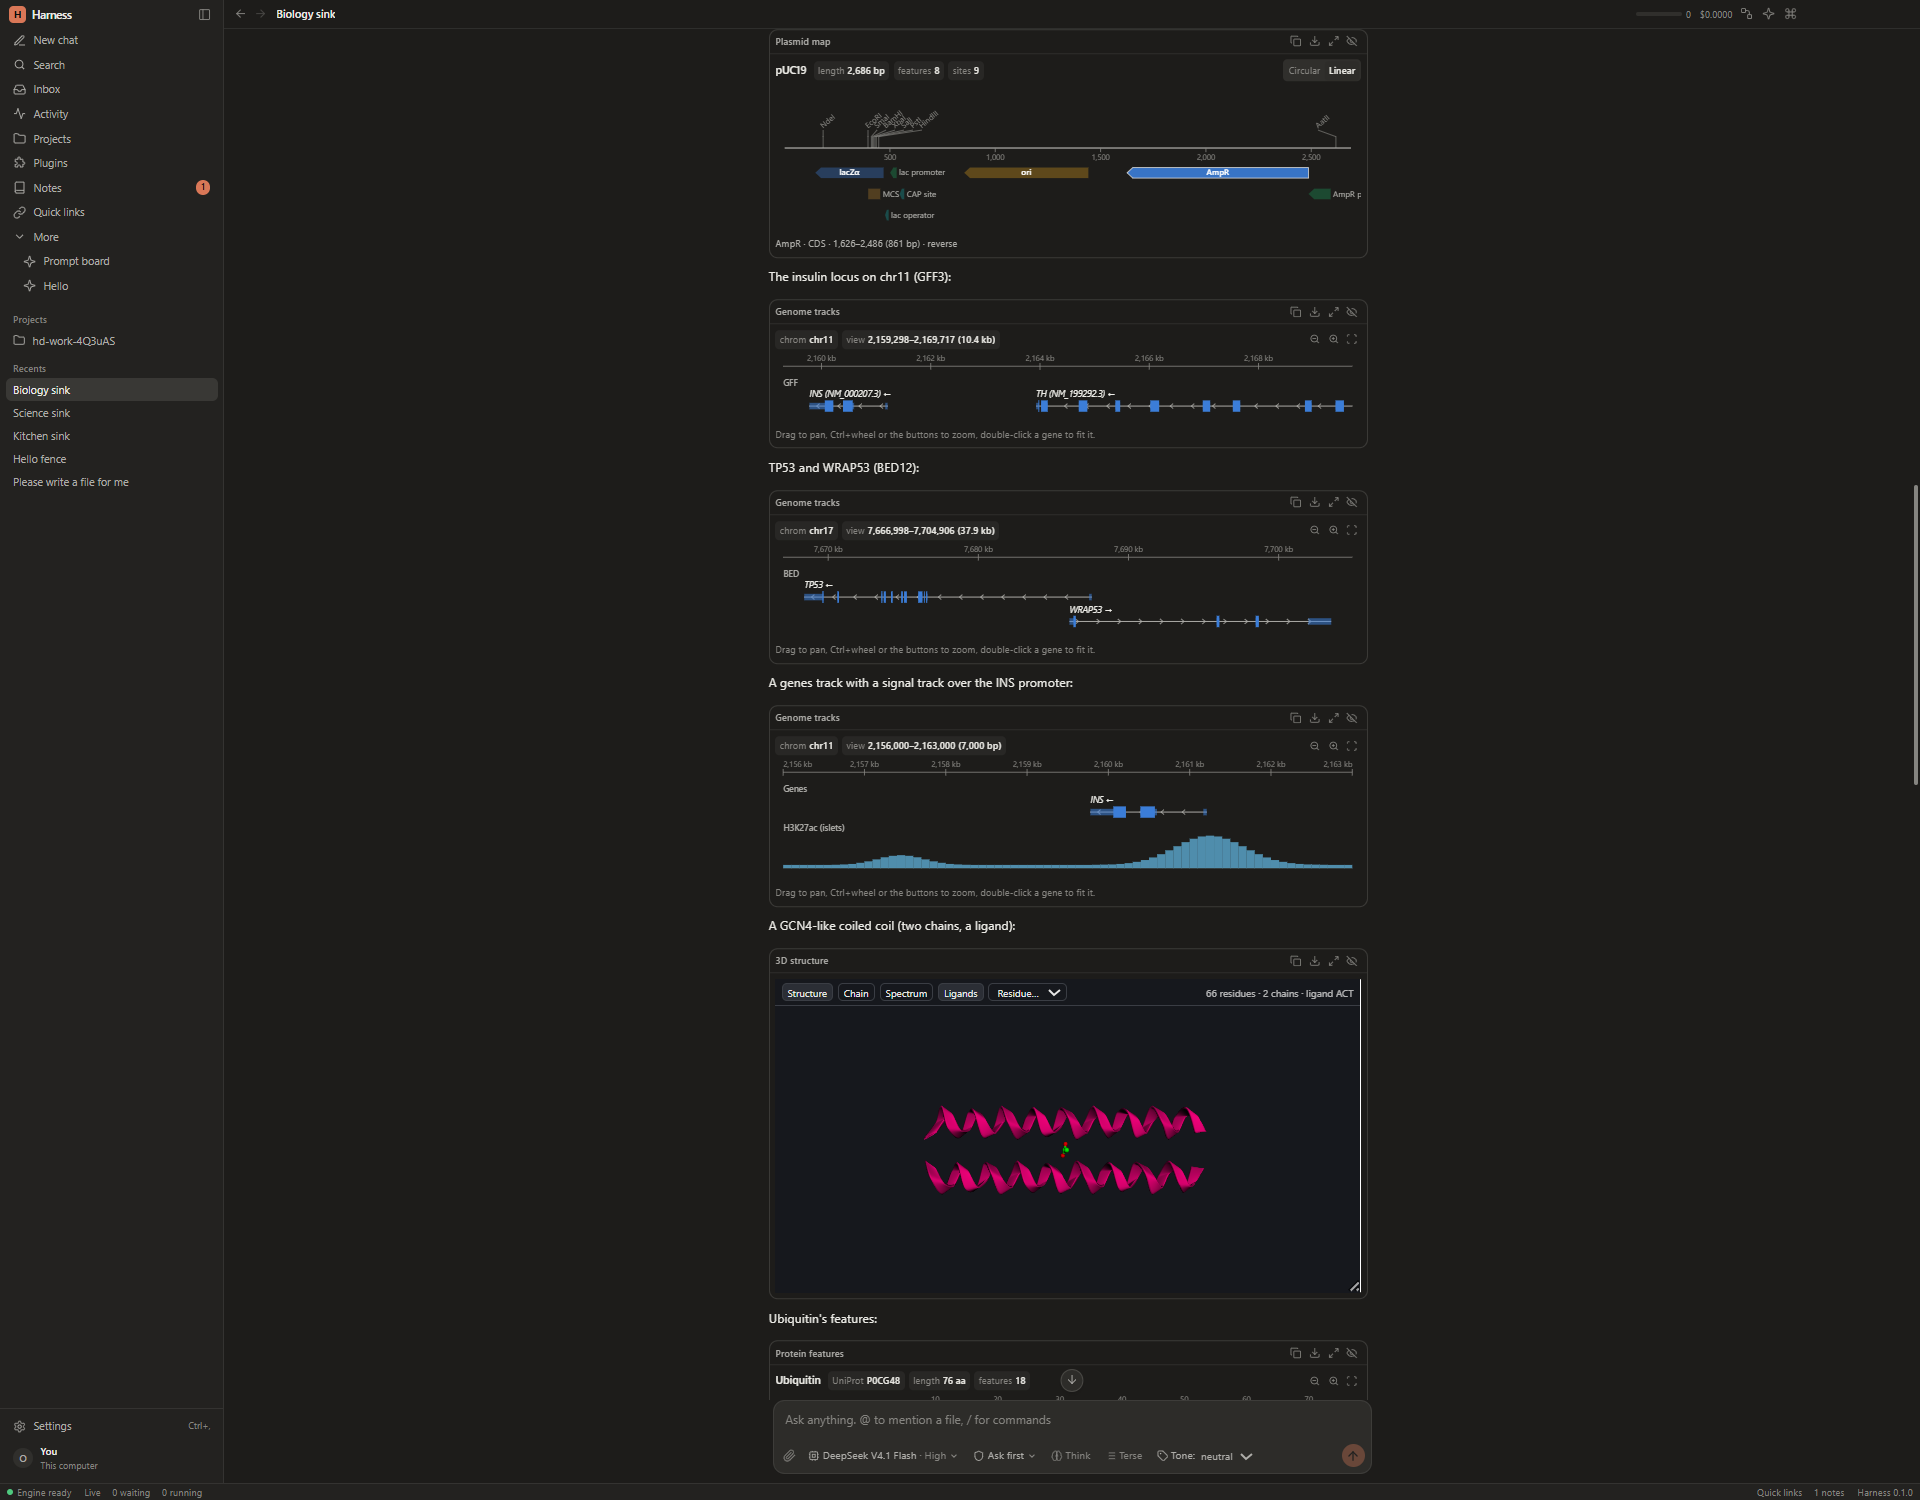
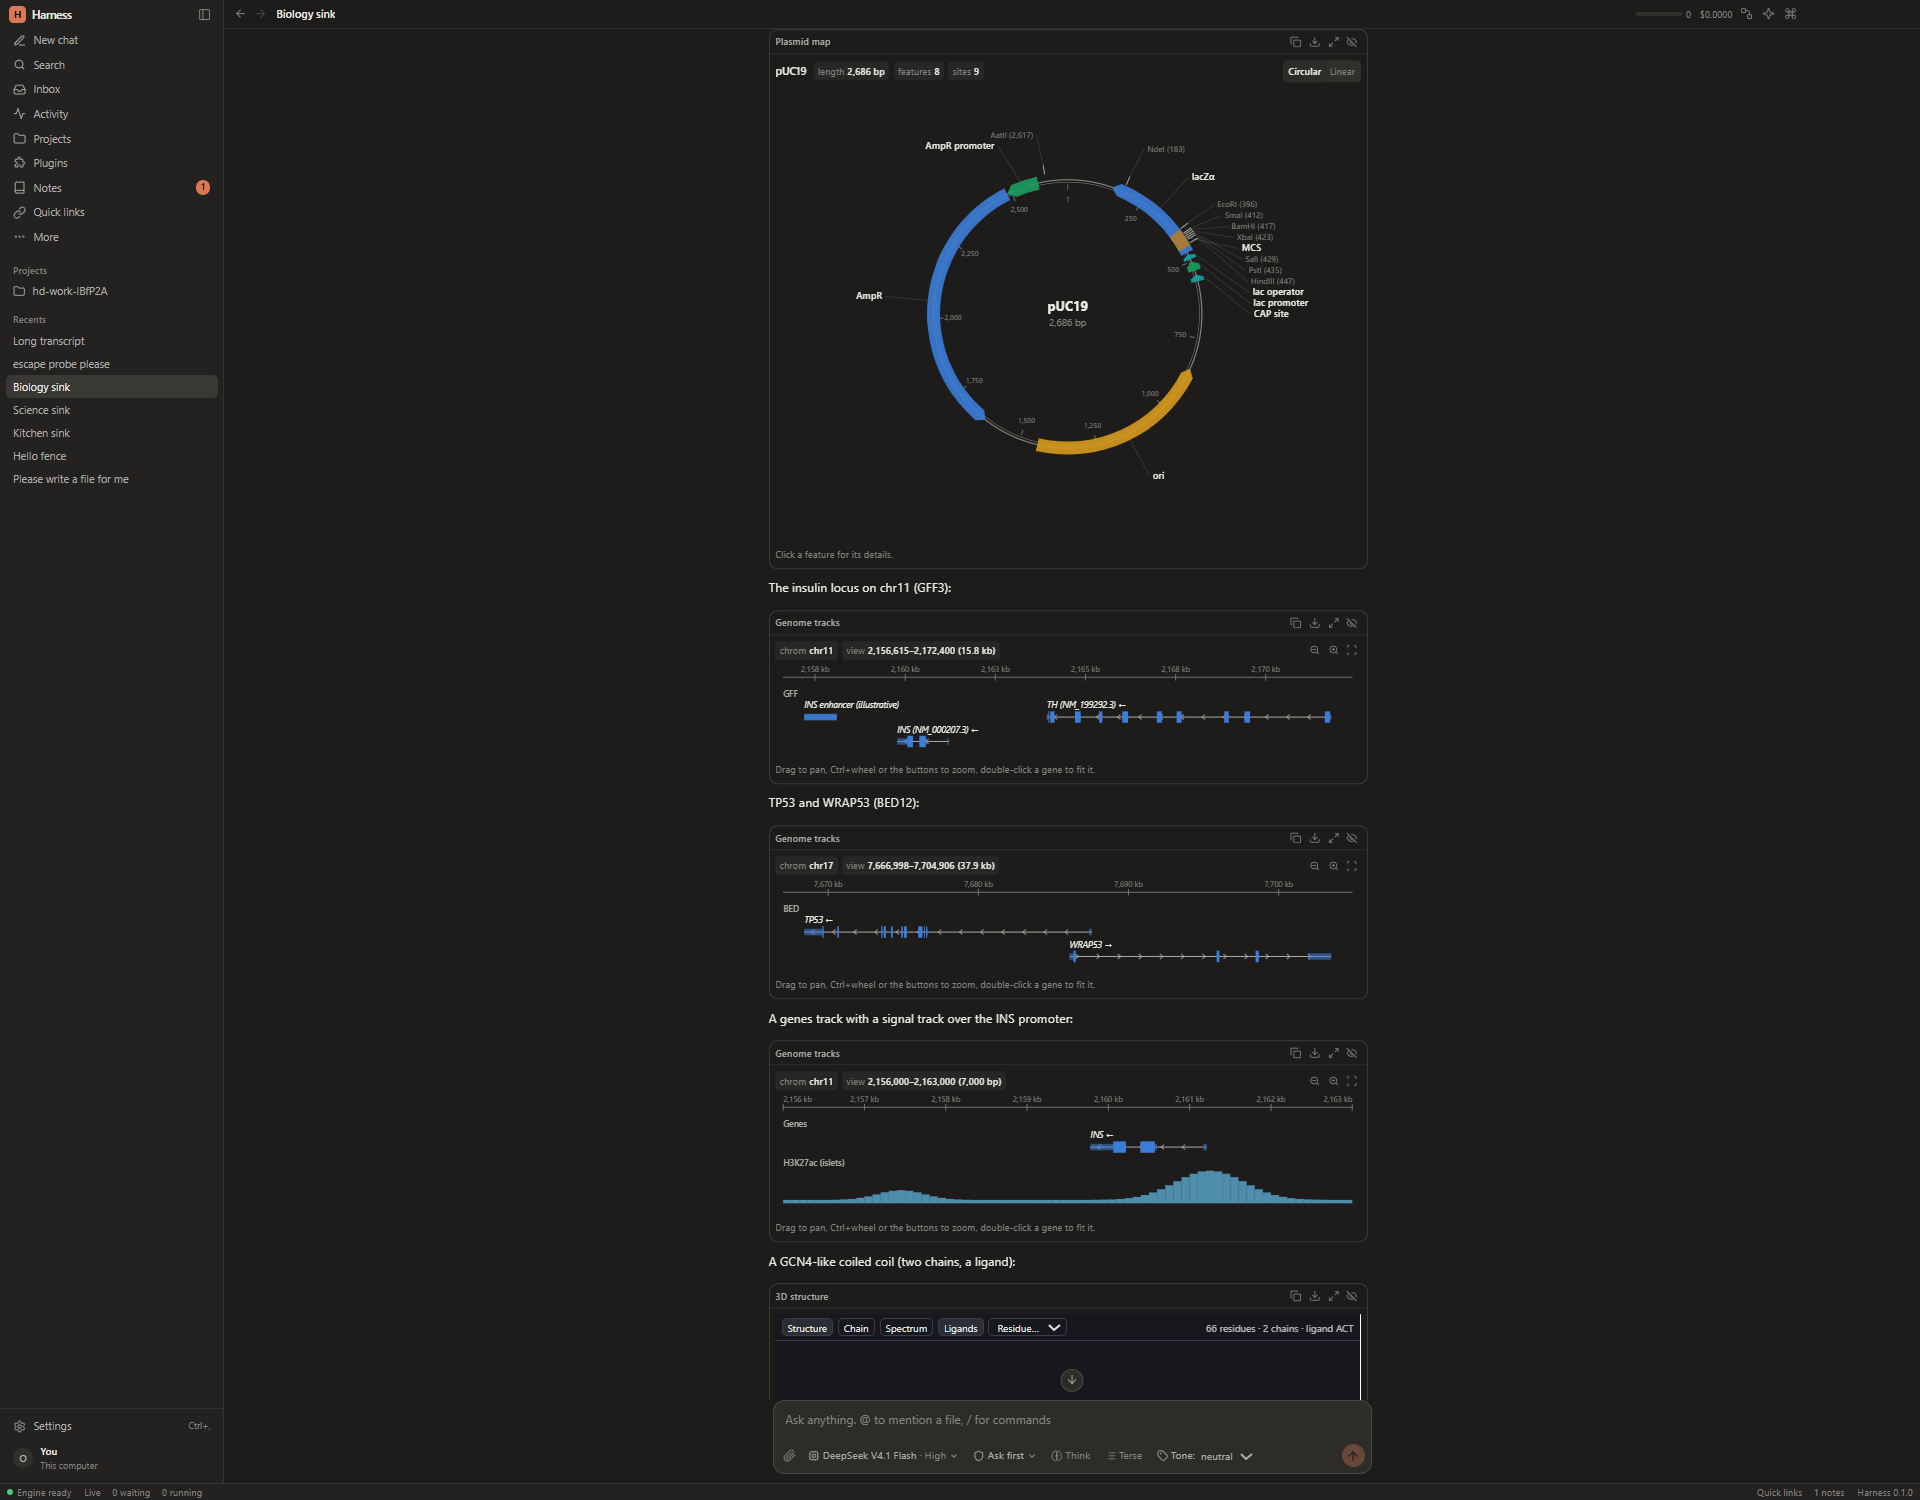
e2e: the biology dark overview in its own step after the theme step (a theme switch before the 1,000-message step perturbs its streaming layout-shift measurement: 3 of 5 runs failed with it, 0 of 4 without); track lanes reserve room for labels

diff --git a/test/desktop-e2e.test.ts b/test/desktop-e2e.test.ts
@@ -129,6 +129,7 @@ test('desktop app end to end', { timeout: 15 * 60_000 }, async (t) => {
 
     let sessionId = '';
     let richId = '';
+    let bioId = '';
     await step('a session in a folder: a permission request in the attention bar and the inbox, approved, and the tool card', async () => {
       // The engine restarts to take the new folder as a root: watch it go down and come back.
       await page.evaluate(() => { const w = window as unknown as { __restarted: boolean }; w.__restarted = false; const el = document.querySelector('[data-engine-status]')!; new MutationObserver(() => { if (el.getAttribute('data-engine-status') !== 'ready') w.__restarted = true; }).observe(el, { attributes: true }); });
@@ -475,6 +476,7 @@ test('desktop app end to end', { timeout: 15 * 60_000 }, async (t) => {
       const r = await api('POST', '/api/sessions/import', { runtime: 'local', bundle: { ...longBundle(0), source: { ...longBundle(0).source, title: 'Biology sink' }, history: [{ role: 'user', content: [{ type: 'text', text: 'Show me the biology renderers.' }] }, { role: 'assistant', content: [{ type: 'text', text: BIO_KITCHEN_SINK }] }] } });
       assert.equal(r.status, 201, JSON.stringify(r.body));
       const id = (r.body as { id: string }).id;
+      bioId = id;
       await page.click('[data-nav="core.chat:search"]');
       await page.click(`[data-session-row="${id}"] button`);
       const inSession = `[data-session="${id}"] [data-assistant-message]`;
@@ -554,23 +556,6 @@ test('desktop app end to end', { timeout: 15 * 60_000 }, async (t) => {
       await shotTall('render-bio-heatmap', '[data-widget="Heatmap"]');
       await shotEl('render-bio-survival', '[data-widget="Survival curve"]');
       await shotEl('render-bio-manhattan', '[data-widget="Manhattan plot"]');
-      const theme = ((await invoke('prefs:get')) as { theme?: string }).theme ?? 'system';
-      await invoke('prefs:set', { theme: 'dark' });
-      await page.waitForFunction(() => document.documentElement.dataset.theme === 'dark');
-      await page.waitForFunction((s) => document.querySelectorAll(`${s} [data-bioplot] [data-chart="vega"] svg`).length >= 4, inSession, { timeout: 30_000 });
-      await setSize(1280, 1000);
-      await page.evaluate(() => { document.documentElement.style.zoom = '0.55'; });
-      try {
-        await page.locator(`${inSession} [data-widget="Plasmid map"]`).first().evaluate((el) => el.scrollIntoView({ block: 'start' }));
-        await page.waitForTimeout(1200);
-        await shot('render-bio-dark');
-      } finally {
-        await page.evaluate(() => { document.documentElement.style.zoom = ''; });
-        await setSize(1280, 820);
-        await invoke('prefs:set', { theme });
-        await page.waitForTimeout(400);
-      }
-      assert.equal(await page.locator(`${inSession} [data-render-error]`).count(), 0, 'the theme switch broke nothing');
       await newChat();
       assert.deepEqual(errors.slice(before), [], 'no console errors or exceptions while drawing biology');
     });
@@ -739,6 +724,36 @@ test('desktop app end to end', { timeout: 15 * 60_000 }, async (t) => {
       }
       await shot('small-window');
       await setSize(1280, 820);
+    });
+
+    // After the theme step: a theme switch before the 1,000-message step perturbs its layout-shift measurement.
+    await step('biology in dark: every block follows the theme', async () => {
+      assert.ok(bioId, 'the biology session exists');
+      const before = errors.length;
+      const inSession = `[data-session="${bioId}"] [data-assistant-message]`;
+      await page.click('[data-nav="core.chat:search"]');
+      await page.click(`[data-session-row="${bioId}"] button`);
+      await page.waitForSelector(`${inSession} [data-seq-map]`, { timeout: 30_000 });
+      const theme = ((await invoke('prefs:get')) as { theme?: string }).theme ?? 'system';
+      await invoke('prefs:set', { theme: 'dark' });
+      await page.waitForFunction(() => document.documentElement.dataset.theme === 'dark');
+      await page.waitForFunction((s) => document.querySelectorAll(`${s} [data-bioplot] [data-chart="vega"] svg`).length >= 4, inSession, { timeout: 30_000 });
+      await page.waitForSelector(`${inSession} [data-pathway] [data-graphviz="svg"] svg`, { timeout: 30_000 });
+      await setSize(1280, 1000);
+      await page.evaluate(() => { document.documentElement.style.zoom = '0.55'; });
+      try {
+        await page.locator(`${inSession} [data-widget="Plasmid map"]`).first().evaluate((el) => el.scrollIntoView({ block: 'start' }));
+        await page.waitForTimeout(1200);
+        await shot('render-bio-dark');
+      } finally {
+        await page.evaluate(() => { document.documentElement.style.zoom = ''; });
+        await setSize(1280, 820);
+        await invoke('prefs:set', { theme });
+        await page.waitForTimeout(400);
+      }
+      assert.equal(await page.locator(`${inSession} [data-render-error]`).count(), 0, 'the theme switch broke nothing');
+      await newChat();
+      assert.deepEqual(errors.slice(before), [], 'no console errors or exceptions');
     });
 
     await step('the onboarding wizard steps come from the registry', async () => {

diff --git a/packages/ui/src/render/biology/tracks.ts b/packages/ui/src/render/biology/tracks.ts
@@ -165,6 +165,9 @@ export function initialView(set: TrackSet, chrom: string): [number, number] {
   return [Math.max(1, Math.floor(lo - pad)), Math.ceil(hi + pad)];
 }
 
+/** Lanes for a chromosome's items; a label (about 6.2 px a character on a 700 px track) reserves its width too. */
 export function laneItems(items: Transcript[], chrom: string, span: number): Array<{ item: Transcript; lane: number }> {
-  return packLanes(items.filter((t) => t.chrom === chrom), span * 0.015);
+  const bpPerChar = (span / 700) * 6.2;
+  return packLanes(items.filter((t) => t.chrom === chrom).map((item) => ({ item, start: item.start, end: Math.max(item.end, item.start + (item.name.length + 3) * bpPerChar) })), span * 0.015)
+    .map(({ item, lane }) => ({ item: item.item, lane }));
 }
